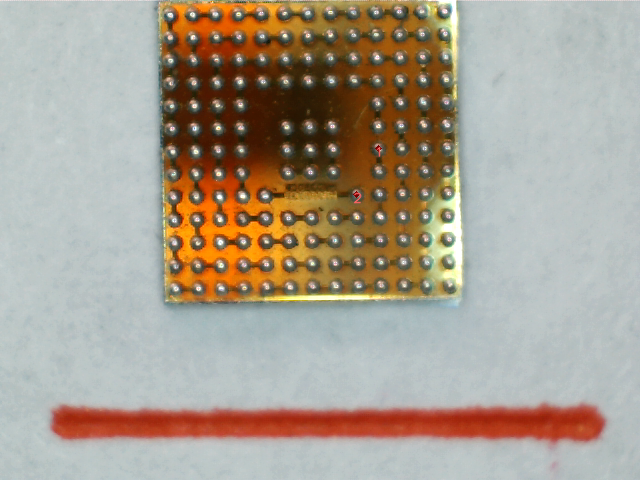
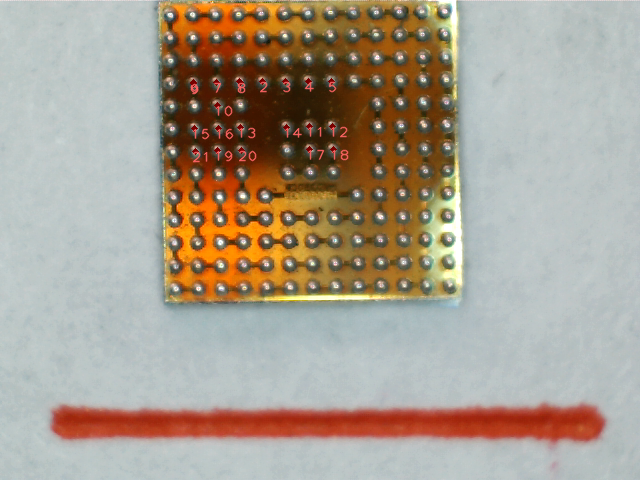
Coordinate Conversion further integrated into Labview
tested, returning correct outputs (label and separate coordinates)

diff --git a/0_BallShear/scripts/pixel_location.py b/0_BallShear/scripts/pixel_location.py
@@ -12,16 +12,14 @@ import numpy as np
 import cv2
 
 # built-in modules
-import os
+import os.path
 import sys
 import glob
-import PIL
-from PIL import ImageFont
-from PIL import Image
-from PIL import ImageDraw
+import mmap
 import argparse
+import csv
 from math import *
-
+#from matplotlib import pyplot as plt
 
 drag_start = None
 sel = (0,0,0,0)
@@ -46,35 +44,51 @@ def onmouse(event, x, y, flags, param):
             lastpt1 =0
             lastpt2 =0
             lastpt3=0
+            if(len(sys.argv)<=2):
+                text_file = open("coordinate.csv", "w")
+            else:
+                text_file = open(sys.argv[2], "w")
+            difference2=0
+            pt1=[]
+            pt2=[]
             for pt in zip(*loc[::-1]):
                 #if( abs(lastpt1-(pt[0]+w/2))>0):
-                    #difference = lastpt1 -(pt[0]+w/2)   
-                    #if(difference < 5):
-                    #    i=i
-                    #    difference=0
-                    #if((lastpt1 ==(pt[0]+w/2))):
-                    #    i=i
-                    #    difference=0
-                    #if(difference > 5):
-                       
-                        difference2 = abs(lastpt3-(pt[0]+w/2))
-                        if(difference2 >5):
-                            i=i+1
-                            cv2.rectangle(img_rgb, pt, (pt[0] + w, pt[1] + h), (0,0,255), 1)
-                            cv2.circle(img_rgb,(pt[0]+w/2,pt[1]+h/2),1,(0,0,120),3) # draw the center of the circle
-                            print((pt[0]+w/2,pt[1]+h/2),i,'lastpoint:',lastpt3)
-                            cv2.putText(img_rgb,str(i),(pt[0]+w/2,pt[1]+h/2), font,1,(255,255,255),1,cv2.CV_AA)
-                            lastpt3=pt[0]+w/2
+                    difference = abs(lastpt1 -(pt[0]+w/2))   
                     
-                
-                        lastpt1= pt[0]+w/2
-                        lastpt2= pt[1]+h/2
-                
+                    difference2 = abs(lastpt2 -(pt[0]+w/2))
+                    if(difference > w/2 and difference2 > w/2):
+                        
+                        #difference2 = abs(lastpt3-(pt[0]+w/2))
+                        #if(difference2 >5):
+                        if(((pt1.count(pt[0]+w/2) ==0) or pt2.count(pt[1]+h/2)==0)and((pt1.count(1+pt[0]+w/2) ==0) or pt2.count(1+pt[1]+h/2)==0) and ((pt1.count(pt[0]+w/2) ==0) or pt2.count(1+pt[1]+h/2)==0) and ((pt1.count(1+pt[0]+w/2) ==0) or pt2.count(pt[1]+h/2)==0)):
+                                if i > 0:
+                                    text_file.write('\n')
+                                i=i+1
+                                #cv2.rectangle(img_rgb, pt, (pt[0] + w, pt[1] + h), (0,0,255), 1)
+                                cv2.circle(img_rgb,(pt[0]+w/2,pt[1]+h/2),1,(0,0,120),3) # draw the center of the circle
+                                print((pt[0]+w/2,pt[1]+h/2),i  ,difference)
+                                text_file.write(str(i)+','+str(pt[0]+w/2)+','+str(pt[1]+h/2));
+                                cv2.putText(img_rgb,str(i),(pt[0]+w/4,pt[1]+h), font,1,(100,100,255),1,cv2.CV_AA)
+                                lastpt2= lastpt1
+                                lastpt1= pt[0]+w/2
+                    pt1.append(pt[0]+w/2)
+                    pt2.append(pt[1]+h/2)
+                    
+                    
+                         
             
             val, result = cv2.threshold(result, 0.01, 0, cv2.THRESH_TOZERO)
             result8 = cv2.normalize(result,None,0,255,cv2.NORM_MINMAX,cv2.CV_8U)
-            cv2.imwrite('result/res.png',img_rgb)
-            cv2.imshow("result.res.png", img_rgb)
+            if(len(sys.argv)<=3):
+                cv2.imwrite('res.png',img_rgb)
+                cv2.imshow("res.png", img_rgb)
+            else:
+                cv2.imwrite(sys.argv[3],img_rgb)
+                #plt.imshow(img_rgb)
+                #plt.xticks([]), plt.yticks([])  # to hide tick values on X and Y axis
+                #plt.show()
+                cv2.imshow(sys.argv[3], img_rgb)
+            
         drag_start = None
     elif drag_start:
         #print flags
@@ -90,26 +104,39 @@ def onmouse(event, x, y, flags, param):
             drag_start = None
 
 if __name__ == '__main__':
-    parser = argparse.ArgumentParser(description='Demonstrate mouse interaction with images')
-    parser.add_argument("-i","--input", default='./', help="Input directory.")
-    args = parser.parse_args()
-    path = args.input
+    #parser = argparse.ArgumentParser(description='Demonstrate mouse interaction with images')
+    #parser.add_argument("-i","--input", default='./', help="Input directory.")
+    #args = parser.parse_args()
+    #path = args.input
 
     cv2.namedWindow("gray",1)
     cv2.setMouseCallback("gray", onmouse)
     '''Loop through all the images in the directory'''
-    for infile in glob.glob( os.path.join(path, '*.*') ):
-        ext = os.path.splitext(infile)[1][1:] #get the filename extenstion
-        if ext == "png" or ext == "jpg" or ext == "bmp" or ext == "tiff" or ext == "pbm":
-            print infile
-
+    #for infile in glob.glob( os.path.join(path, '*.*') ):
+        #ext = os.path.splitext(infile)[1][1:] #get the filename extenstion
+    #if ext == "png" or ext == "jpg" or ext == "bmp" or ext == "tiff" or ext == "pbm":
+            #print infile
+    if(len(sys.argv)<=3):
+        print >> sys.stderr, 'Input Arguments are not correct. Please follow this templete input picture file location,output csv file location, output image file location'
+        #infile="package1.png"
+        cv2.destroyAllWindows()
+    else:
+        infile = sys.argv[1]
+        if(os.path.exists(sys.argv[1])):
             img=cv2.imread(infile,1)
-            if img == None:
-                continue
+            #if img == None:
+                #continue
             sel = (0,0,0,0)
             drag_start = None
             gray=cv2.cvtColor(img, cv2.COLOR_BGR2GRAY)
             cv2.imshow("gray",gray)
-            if (cv2.waitKey() & 255) == 27:
-                break
-    cv2.destroyAllWindows()
+            #plt.imshow(img, cmap = 'gray', interpolation = 'bicubic')
+            #plt.xticks([]), plt.yticks([])  # to hide tick values on X and Y axis
+            #plt.show()
+        else:
+            cv2.destroyAllWindows()
+            print >> sys.stderr, 'Input Arguments are not correct. Please follow this templete input picture file location,output csv file location, output image file location'
+
+        if (cv2.waitKey() & 255) == 27:
+            #break
+            cv2.destroyAllWindows()

diff --git a/0_BallShear/scripts/coordinate_conversion.py b/0_BallShear/scripts/coordinate_conversion.py
@@ -34,12 +34,12 @@ elif(os.path.exists(sys.argv[1]) and os.path.exists(sys.argv[2])):
         rCoord_y = 0            #temporary placeholder
 
         #filtering
-        h_low = 120
-        s_low = 0
-        v_low = 0
-        h_high = 180
+        h_low = 0
+        s_low = 32
+        v_low = 143
+        h_high = 12
         s_high = 255
-        v_high = 255
+        v_high = 197
 
         hsv_lower = np.array([h_low, s_low, v_low])
         hsv_upper = np.array([h_high, s_high, v_high])
@@ -202,13 +202,19 @@ elif(os.path.exists(sys.argv[1]) and os.path.exists(sys.argv[2])):
         # populating virtual coordinates
         #################################################
         # Reading contents of .csv into arrays
+            i = 0
             vCoord = np.genfromtxt(csv_virtual, dtype=[('label', 'S5'), ('vCoord_x', 'i8'), ('vCoord_y', 'i8')], delimiter=",")
             for label, vX, vY in vCoord:
                 rCoord_x = (vX - vOrigin_x) * conversionFactor
                 rCoord_y = (vOrigin_y - vY) * conversionFactor
 
-                csvwriter = csv.writer(csv_real, delimiter=',')
-                csvwriter.writerow([label, rCoord_x, rCoord_y])
+                if i > 0:
+                    csv_real.write('\n')
+                i=i+1
+                csv_real.write(str(label)+','+str(rCoord_x)+','+str(rCoord_y));
+        
+                #csvwriter = csv.writer(csv_real, delimiter=',')
+                #csvwriter.writerow([label, rCoord_x, rCoord_y])
 
                 print "virtual: (" , vX, ",", vY, ")", "real: (" , rCoord_x, ",", rCoord_y, ")"
             
@@ -218,11 +224,11 @@ elif(os.path.exists(sys.argv[1]) and os.path.exists(sys.argv[2])):
         else:
             print "none found"
 
-        raw_input()
+        #raw_input()
 
     except Exception as ex:
         print ex
-        raw_input()
+        #raw_input()
 else:
     print >> sys.stderr, 'Input Arguments are not correct. Please follow this templete analyzed  picture file location,virtual coordinate csv file location, physical coordinate csv location'
 

diff --git a/0_BallShear/scripts/livefeed.py b/0_BallShear/scripts/livefeed.py
@@ -44,20 +44,27 @@ def display():
         
 	
 
-print("Press c to capture a Image")
+
+if(len(sys.argv)!=2):
+        print >> sys.stderr, 'Input argument is not found'
+        rval=0
+else:
+    print("Press c to capture a Image")
 #print(sys.argv[1])
 while rval:
-    cv2.imshow("Live Feed", frame)
-    rval, frame = vc.read()
-    key = cv2.waitKey(20)
-    b=0
+        cv2.imshow("Live Feed", frame)
+        rval, frame = vc.read()
+        key = cv2.waitKey(20)
+        b=0
     #key2 = cv2.waitKey(0);
-    if key == 27: # exit on ESC
-        break
-    if key == 99:
-    	b =capture()
-    if (b==2):
-        break
+    
+        if key == 27: # exit on ESC
+            print >> sys.stderr, 'Picture has not been saved. Please take image again'
+            break
+        if key == 99:
+            b =capture()
+        if (b==2):
+            break
     	
     	
     
